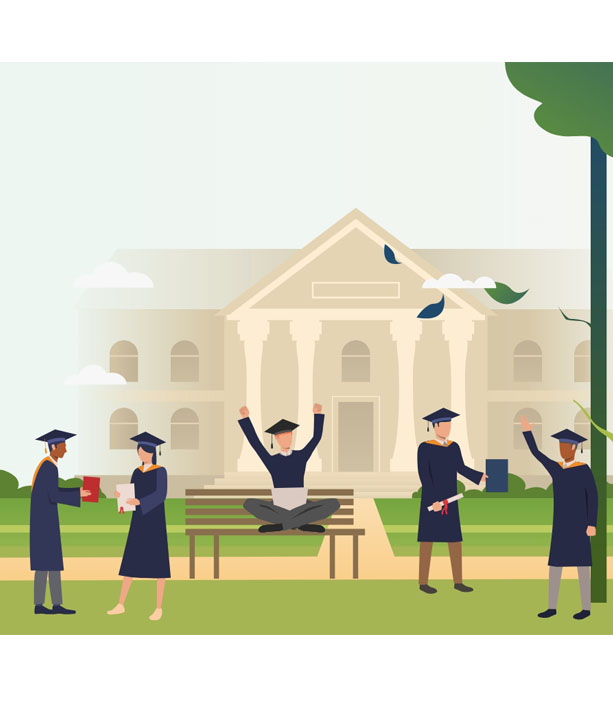
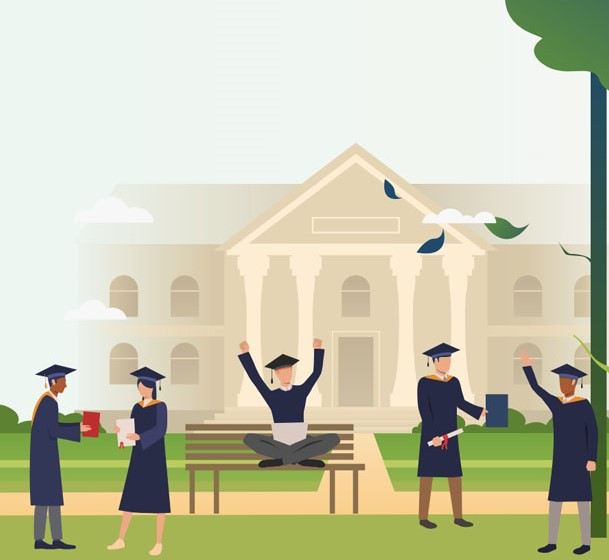
simple section complite

diff --git a/institute.html b/institute.html
@@ -84,7 +84,6 @@
     <main class="main">
         <!-- Hero Section -->
         <section id="hero" class="hero section dark-background">
-
             <div class="container">
                 <div class="row gy-4">
                     <div class="col-lg-6 order-2 order-lg-1 d-flex flex-column justify-content-center"
@@ -96,7 +95,7 @@
                         </div>
                     </div>
                     <div class="col-lg-6 order-1 order-lg-2 hero-img" data-aos="zoom-out" data-aos-delay="200">
-                        <img src="assets/src_gsc/image/l3/png/student-hero.jpg" class="img-fluid animated" alt="">
+                        <img src="assets/src_gsc/image/l3/png/uni-hero.jpg" class="img-fluid animated" alt="">
                     </div>
                 </div>
             </div>
@@ -105,40 +104,40 @@
         <!-- simple icon section -->
         <section>
             <div class="container">
-                <h1 class="text-center">Easy steps to <br> get recruited by your <br> desired University</h1>
+                <h1 class="text-center fw-semibold">Our Efficient <br> Student Recruitment  <br>Process</h1>
                 <div class="row mt-5">
                     <div class="col-md-4 text-center d-flex flex-column justify-content-center align-items-center ">
                         <div class="rounded-3 d-flex justify-content-center align-items-center"
-                            style="width:90px;height: 90px; background-color: #f8c546 !important;">
+                            style="width:90px;height: 90px; background-color: #1250ec !important;">
                             <img src="assets/src_gsc/image/l1/png/usa-icon-1.png" alt="">
                         </div>
-                        <h4 class="mt-4 mb-2">Check Elligibility</h4>
-                        <p>Check which schools match your GPA</p>
+                        <h4 class="mt-4 mb-2">Document Verification</h4>
+                        <p>We do thorough check of every academic document of the student</p>
                     </div>
 
                     <div class="col-md-4 text-center d-flex flex-column justify-content-center align-items-center ">
                         <div class="rounded-3 d-flex justify-content-center align-items-center"
-                            style="width:90px;height: 90px; background-color: #f8c546 !important;">
+                            style="width:90px;height: 90px; background-color: #10cb39 !important;">
                             <img src="assets/src_gsc/image/l1/png/usa-icon-4.png" alt="">
                         </div>
-                        <h4 class="mt-4 mb-2">Select Desired Institute</h4>
-                        <p>Find the University that fits your academic goals</p>
+                        <h4 class="mt-4 mb-2">Applicant Matching</h4>
+                        <p>Our recruitment process only sends applications who are qualified to study in your school</p>
                     </div>
 
                     <div class="col-md-4 text-center d-flex flex-column justify-content-center align-items-center ">
                         <div class="rounded-3 d-flex justify-content-center align-items-center"
-                            style="width:90px;height: 90px; background-color: #f8c546 !important;">
+                            style="width:90px;height: 90px; background-color: #f7770f !important;">
                             <img src="assets/src_gsc/image/l1/png/uk-icons-3.png" alt="">
                         </div>
-                        <h4 class="mt-4 mb-2">Apply on GSC</h4>
-                        <p>Receive Expert Guidance</p>
+                        <h4 class="mt-4 mb-2">Global Outreach programs</h4>
+                        <p>Our Marketing channels will help you get your schools name out among the biggest student circles</p>
                     </div>
                 </div>
             </div>
         </section>
         <!-- simple icon section  -->
 
-        <!-- university list card  -->
+        <!-- our global contacts  -->
         <section style="background-color: #F4F4F9;">
             <div class="container">
                 <h1 class="text-center">Featured Programs</h1>
@@ -188,65 +187,6 @@
                             <div class="card-body">
                                 <div class="d-flex justify-content-between align-items-center">
                                     <img src="assets/src_gsc/image/l2/jpg/gallery-img4.jpg" class="img-fluid rounded-2"
-                                        alt="" style="width:100px; height: 100px;">
-                                    <h4 style="margin-left: 20px;">Wichita State University</h4>
-                                </div>
-                                <div class="d-flex justify-content-between align-items-center mt-5">
-                                    <small class="bg-info px-2 py-1 rounded-1 text-primary m-2 text-small"
-                                        style="font-size: 12px;"><i class="bi bi-geo-alt-fill"></i> Cyprus</small>
-                                    <p class="bg-info px-2 py-1 rounded-1 text-danger m-2" style="font-size: 12px;"><i
-                                            class="bi bi-briefcase"></i> 80K-90K</p>
-                                    <i class="bi bi-bookmark-fill text-info " style="font-size: 28px;"></i>
-                                </div>
-                            </div>
-                        </div>
-                    </div>
-                </div>
-
-                <div class="row mt-3">
-                    <div class="col-xl-4">
-                        <div class="card m-2">
-                            <div class="card-body">
-                                <div class="d-flex justify-content-between align-items-center">
-                                    <img src="assets/src_gsc/image/l2/jpg/gallery-img7.jpg" class="img-fluid rounded-2"
-                                        alt="" style="width:100px; height: 100px;">
-                                    <h4 style="margin-left: 20px;">Royel Business Collage</h4>
-                                </div>
-                                <div class="d-flex justify-content-between align-items-center mt-5">
-                                    <small class="bg-info px-2 py-1 rounded-1 text-primary m-2 text-small"
-                                        style="font-size: 12px;"><i class="bi bi-geo-alt-fill"></i> UK</small>
-                                    <p class="bg-info px-2 py-1 rounded-1 text-danger m-2" style="font-size: 12px;"><i
-                                            class="bi bi-briefcase"></i> 80K-90K</p>
-                                    <i class="bi bi-bookmark-fill text-info " style="font-size: 28px;"></i>
-                                </div>
-                            </div>
-                        </div>
-                    </div>
-
-                    <div class="col-xl-4">
-                        <div class="card m-2">
-                            <div class="card-body">
-                                <div class="d-flex justify-content-between align-items-center">
-                                    <img src="assets/src_gsc/image/l2/jpg/gallery-img8.jpg" class="img-fluid rounded-2"
-                                        alt="" style="width:100px; height: 100px;">
-                                    <h4 style="margin-left: 20px;">Risbey University Collage</h4>
-                                </div>
-                                <div class="d-flex justify-content-between align-items-center mt-5">
-                                    <small class="bg-info px-2 py-1 rounded-1 text-primary m-2 text-small"
-                                        style="font-size: 12px;"><i class="bi bi-geo-alt-fill"></i> USA</small>
-                                    <p class="bg-info px-2 py-1 rounded-1 text-danger m-2" style="font-size: 12px;"><i
-                                            class="bi bi-briefcase"></i> 80K-90K</p>
-                                    <i class="bi bi-bookmark-fill text-info " style="font-size: 28px;"></i>
-                                </div>
-                            </div>
-                        </div>
-                    </div>
-
-                    <div class="col-xl-4">
-                        <div class="card m-2">
-                            <div class="card-body">
-                                <div class="d-flex justify-content-between align-items-center">
-                                    <img src="assets/src_gsc/image/l2/jpg/gallery-img9.jpg" class="img-fluid rounded-2"
                                         alt="" style="width:100px; height: 100px;">
                                     <h4 style="margin-left: 20px;">Wichita State University</h4>
                                 </div>
